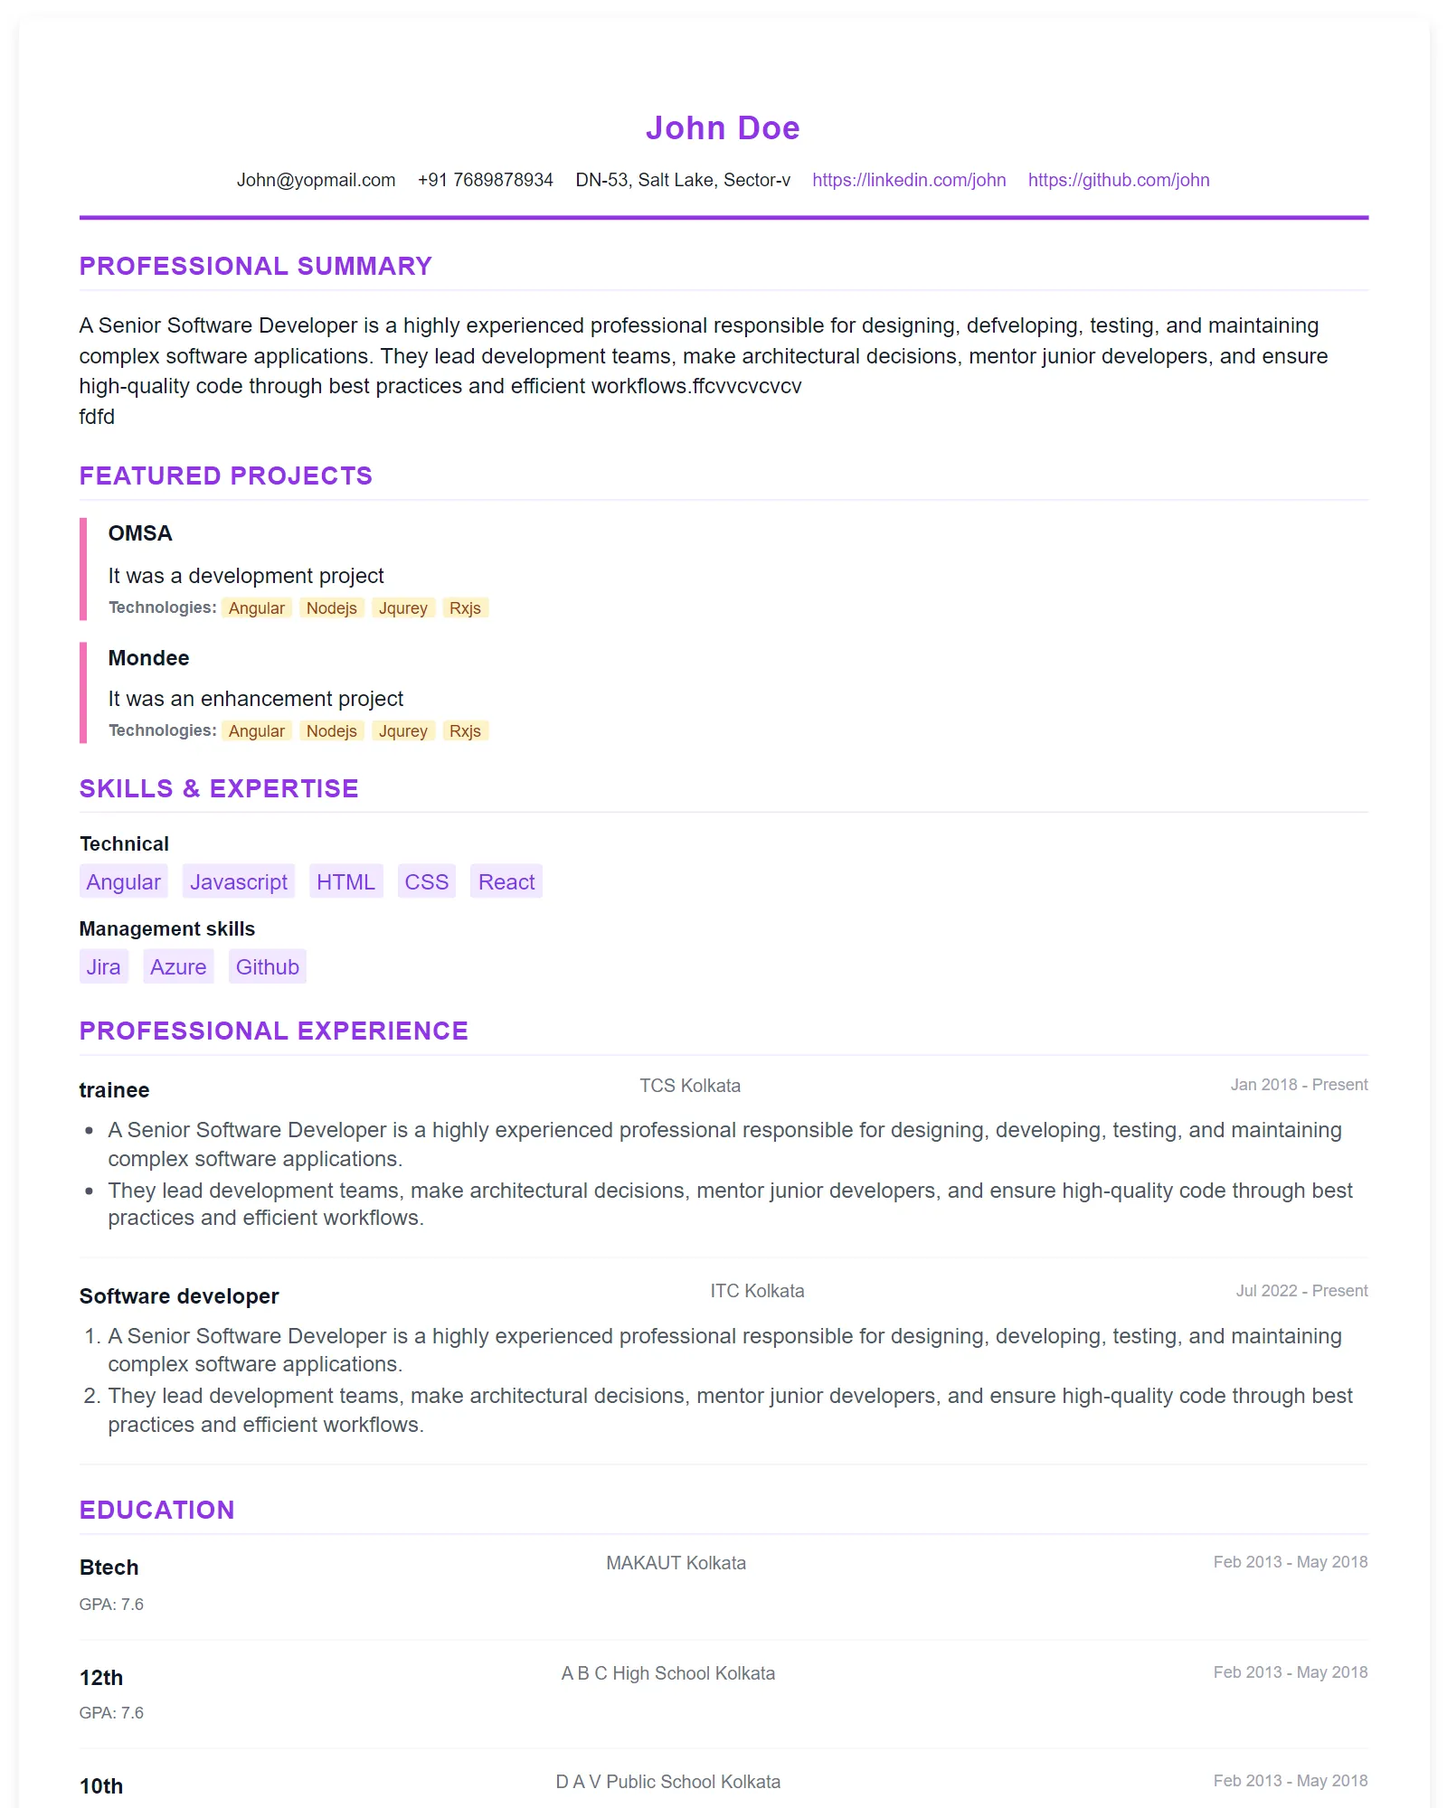
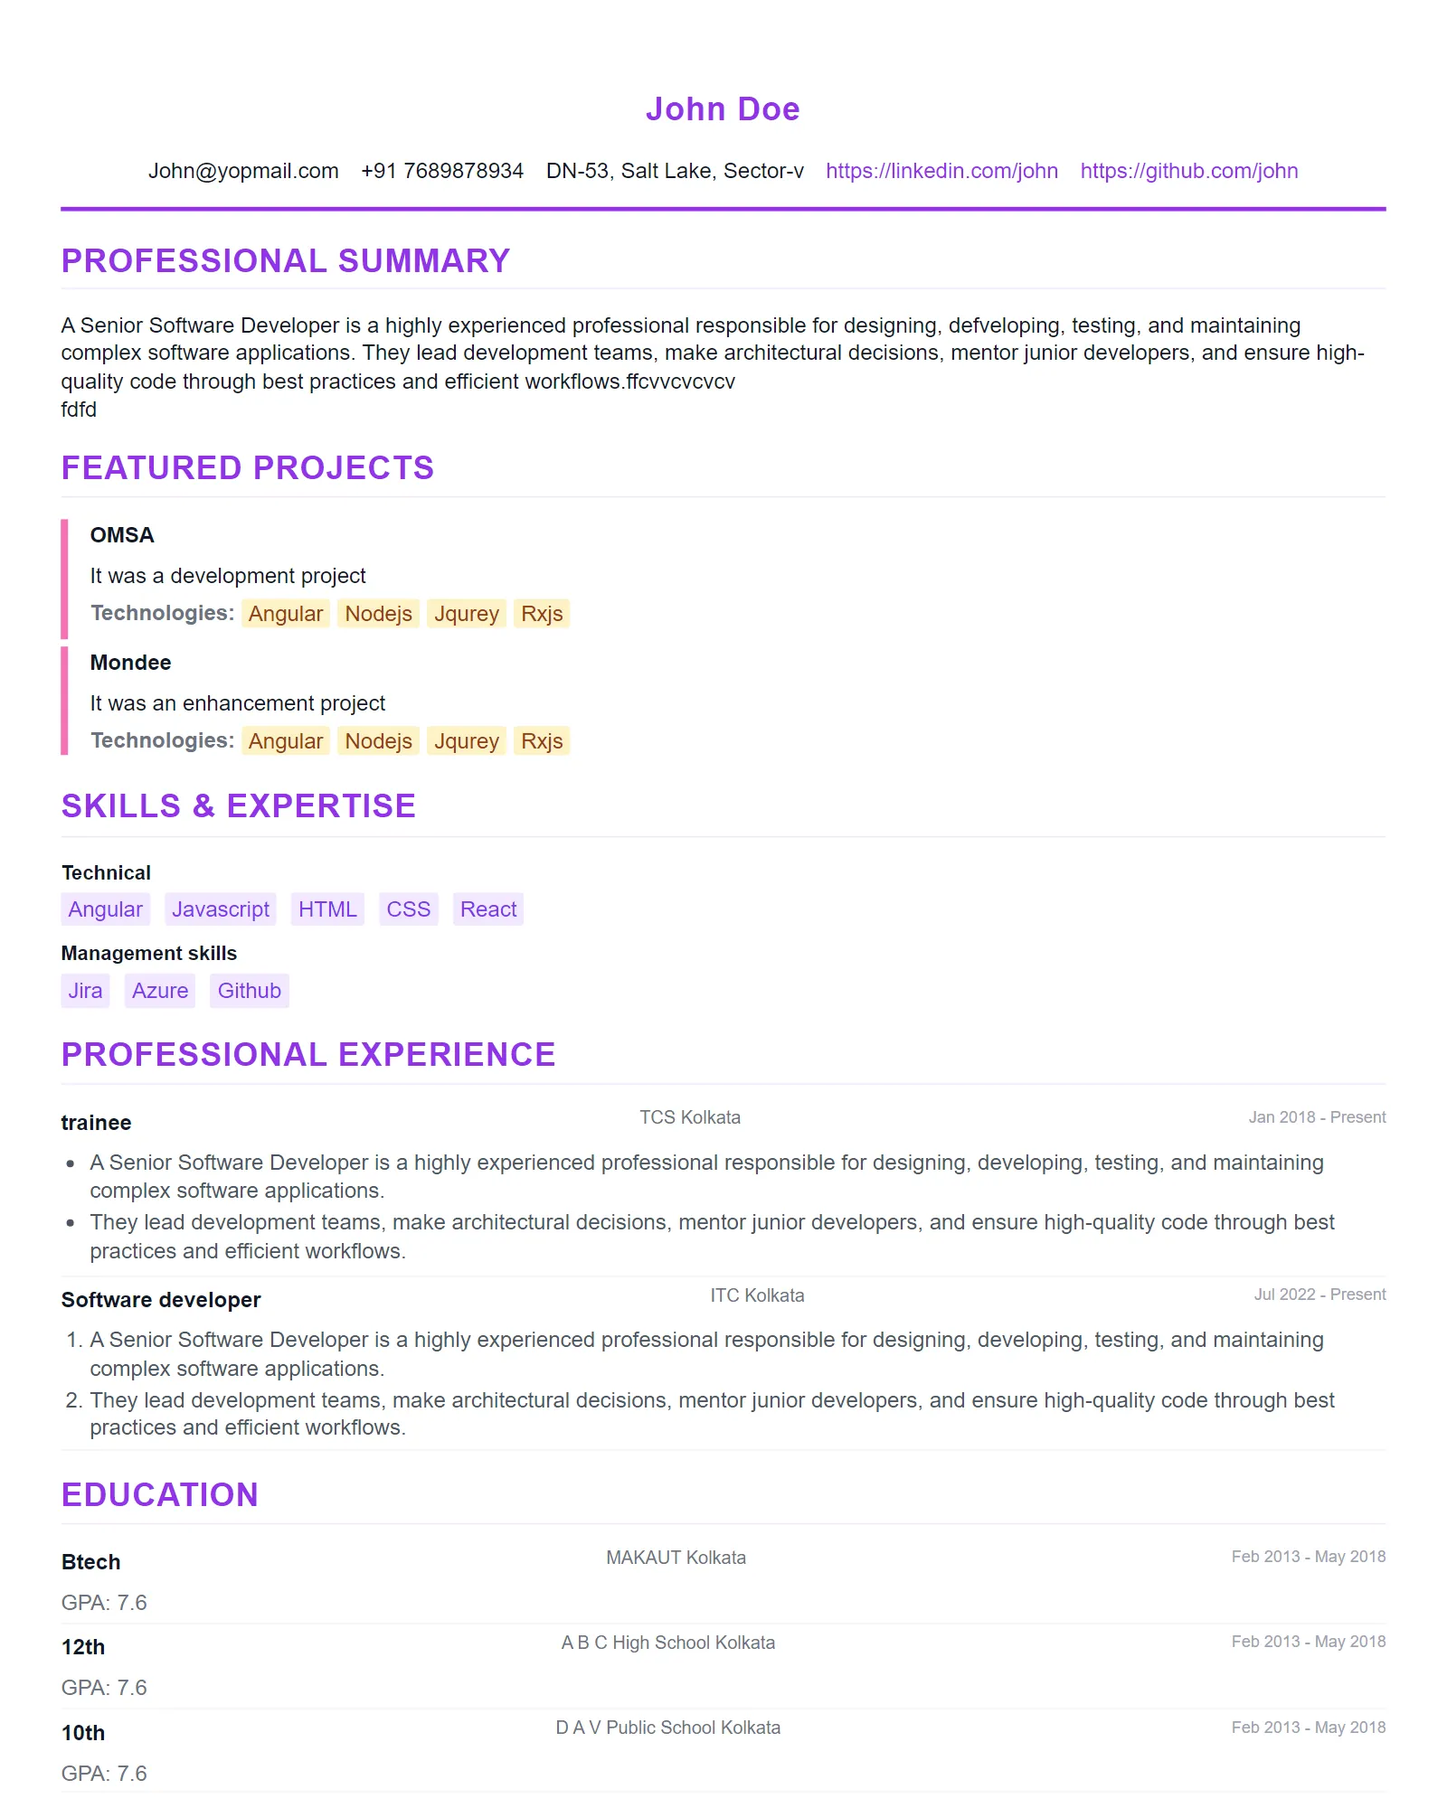
update templates thumbnails and design

diff --git a/backend/assets/templates.js b/backend/assets/templates.js
@@ -1293,7 +1293,13 @@ module.exports = [
       .cert-line { display: flex; justify-content: space-between; align-items: baseline; margin-bottom: 2px; }
       .cert-line h3 { font-size: 16px; color: #1f2937; font-weight: bold; margin: 0; }
       .cert-date { font-size: 12px; color: #6b7280; font-style: italic; }
-      .cert-issuer { font-size: 12px; color: #4b5563; font-style: italic; }`
+      .cert-issuer { font-size: 12px; color: #4b5563; font-style: italic;
+      /* General list styling for HTML content in descriptions */
+      ul, ol { margin: 0.25rem 0; padding-left: 1rem; }
+      ul li, ol li { margin-bottom: 0.125rem; color: #4b5563; line-height: 1.3; font-size: 10px; }
+      ul { list-style-type: disc; }
+      ol { list-style-type: decimal; } }
+      ul { list-style-type: disc; } ol { list-style-type: decimal; }`
     },
     creator: null,
     tags: ['classic', 'professional', 'conservative', 'formal']
@@ -1998,7 +2004,13 @@ module.exports = [
       .language-name { font-size: 12px; color: #1f2937; }
       .language-level { font-size: 12px; color: #64748b; text-transform: capitalize; }
       .custom-field { margin-bottom: 2px; }
-      .custom-content { font-size: 12px; color: #374151; line-height: 1; }`
+      .custom-content { font-size: 12px; color: #374151; line-height: 1; 
+      /* General list styling for HTML content in descriptions */
+      ul, ol { margin: 0.25rem 0; padding-left: 1rem; }
+      ul li, ol li { margin-bottom: 0.125rem; color: #4b5563; line-height: 1.3; font-size: 10px; }
+      ul { list-style-type: disc; }
+      ol { list-style-type: decimal; }}
+      ul { list-style-type: disc; } ol { list-style-type: decimal; }`
     },
     creator: null,
     tags: ['professional', 'executive', 'leadership', 'corporate']
@@ -2187,7 +2199,14 @@ module.exports = [
       .skill-category { margin-bottom: 10px; }
       .skill-category h3 { font-size: 11px; font-weight: 600; color: #1f2937; margin-bottom: 3px; }
       .skill-items { color: #4b5563; line-height: 1.4; }
-      .cert-issuer { color: #6b7280; font-style: italic; }`
+      .cert-issuer { color: #6b7280; font-style: italic; 
+      /* General list styling for HTML content in descriptions */
+      ul, ol { margin: 0.25rem 0; padding-left: 1rem; }
+      ul li, ol li { margin-bottom: 0.125rem; color: #4b5563; line-height: 1.3; font-size: 10px; }
+      ul { list-style-type: disc; }
+      ol { list-style-type: decimal; }
+      }
+      ul { list-style-type: disc; } ol { list-style-type: decimal; }`
     },
     creator: null,
     tags: ['academic', 'research', 'education', 'scholarly', 'single-column', 'green']
@@ -3708,7 +3727,7 @@ module.exports = [
         </section>
         {{/if}}
       </article>`,
-      "css": ".resume.classic-serif { font-family: 'Times New Roman', serif; max-width: 8.5in; margin: 0 auto; padding: 0.5in 0.35in; background: white; color: #111827; font-size: 12px; line-height: 1.4; } .resume.classic-serif .header { text-align: left !important; margin-bottom: 8px; padding-bottom: 4px; border-bottom: 1px solid #d1d5db; } .resume.classic-serif .name { font-size: 18px; line-height: 1.2; letter-spacing: 0.5px; margin: 0 0 3px; font-variant: small-caps; text-align: left !important; font-weight: bold; } .resume.classic-serif .contact { font-size: 11px; color: #4b5563; line-height: 1.3; } .resume.classic-serif section { margin-top: 8px; } .resume.classic-serif h2 { text-transform: uppercase; font-size: 14px; margin: 6px 0 3px; letter-spacing: 0.5px; color: #1f2937; border-left: 3px solid #4b5563; padding-left: 4px; font-weight: bold; } .resume.classic-serif h3 { font-size: 12px; font-weight: bold; margin: 3px 0 2px; color: #374151; } .resume.classic-serif .job-header, .resume.classic-serif .edu-header, .resume.classic-serif .project-header, .resume.classic-serif .achievement-header, .resume.classic-serif .cert-header { display: flex; justify-content: space-between; align-items: baseline; margin-bottom: 2px; } .resume.classic-serif .dates { font-size: 10px; color: #6b7280; } .resume.classic-serif .gpa { font-size: 10px; color: #374151; margin: 2px 0; } .resume.classic-serif .company, .resume.classic-serif .institution, .resume.classic-serif .issuer { font-size: 10px; color: #4b5563; margin: 2px 0; } .resume.classic-serif .job-description, .resume.classic-serif .project-description, .resume.classic-serif .edu-description { margin: 3px 0; color: #374151; line-height: 1.4; } .resume.classic-serif .achievements { margin: 3px 0;} .resume.classic-serif .achievements li { margin-bottom: 2px; color: #374151; } .resume.classic-serif .skill-category { margin-bottom: 4px; } .resume.classic-serif .skill-items { display: flex; flex-wrap: wrap; gap: 6px; margin-top: 2px; } .resume.classic-serif .skill-item { background: #f3f4f6; padding: 2px 4px; border-radius: 2px; font-size: 9px; color: #374151; } .resume.classic-serif .technologies { margin: 3px 0; } .resume.classic-serif .tech-tag { background: #e5e7eb; padding: 1px 3px; border-radius: 2px; font-size: 8px; margin-right: 3px; } .resume.classic-serif .project-links { margin: 2px 0; } .resume.classic-serif .project-links a { color: #2563eb; text-decoration: none; font-size: 9px; } .resume.classic-serif .cert-expiry, .resume.classic-serif .cert-id { font-size: 9px; color: #6b7280; margin: 1px 0; } .resume.classic-serif .cert-link a { color: #2563eb; text-decoration: none; font-size: 9px; } .resume.classic-serif .issuer-info { font-size: 9px; color: #6b7280; margin: 2px 0; } .resume.classic-serif .language-item { margin: 2px 0; font-size: 10px; } .resume.classic-serif .custom-field { margin-bottom: 4px; } .resume.classic-serif .custom-content { margin: 2px 0; } .resume.classic-serif p { margin: 2px 0; } .resume.classic-serif .job, .resume.classic-serif .edu, .resume.classic-serif .project, .resume.classic-serif .cert, .resume.classic-serif .achievement { margin-bottom: 6px; }"
+      "css": ".resume.classic-serif { font-family: 'Times New Roman', serif; max-width: 8.5in; margin: 0 auto; padding: 0.5in 0.35in; background: white; color: #111827; font-size: 12px; line-height: 1.4; } .resume.classic-serif .header { text-align: left !important; margin-bottom: 8px; padding-bottom: 4px; border-bottom: 1px solid #d1d5db; } .resume.classic-serif .name { font-size: 18px; line-height: 1.2; letter-spacing: 0.5px; margin: 0 0 3px; font-variant: small-caps; text-align: left !important; font-weight: bold; } .resume.classic-serif .contact { font-size: 11px; color: #4b5563; line-height: 1.3; } .resume.classic-serif section { margin-top: 8px; } .resume.classic-serif h2 { text-transform: uppercase; font-size: 14px; margin: 6px 0 3px; letter-spacing: 0.5px; color: #1f2937; border-left: 3px solid #4b5563; padding-left: 4px; font-weight: bold; } .resume.classic-serif h3 { font-size: 12px; font-weight: bold; margin: 3px 0 2px; color: #374151; } .resume.classic-serif .job-header, .resume.classic-serif .edu-header, .resume.classic-serif .project-header, .resume.classic-serif .achievement-header, .resume.classic-serif .cert-header { display: flex; justify-content: space-between; align-items: baseline; margin-bottom: 2px; } .resume.classic-serif .dates { font-size: 10px; color: #6b7280; } .resume.classic-serif .gpa { font-size: 10px; color: #374151; margin: 2px 0; } .resume.classic-serif .company, .resume.classic-serif .institution, .resume.classic-serif .issuer { font-size: 10px; color: #4b5563; margin: 2px 0; } .resume.classic-serif .job-description, .resume.classic-serif .project-description, .resume.classic-serif .edu-description { margin: 3px 0; color: #374151; line-height: 1.4; } .resume.classic-serif .achievements { margin: 3px 0;} .resume.classic-serif .achievements li { margin-bottom: 2px; color: #374151; } .resume.classic-serif .skill-category { margin-bottom: 4px; } .resume.classic-serif .skill-items { display: flex; flex-wrap: wrap; gap: 6px; margin-top: 2px; } .resume.classic-serif .skill-item { background: #f3f4f6; padding: 2px 4px; border-radius: 2px; font-size: 9px; color: #374151; } .resume.classic-serif .technologies { margin: 3px 0; } .resume.classic-serif .tech-tag { background: #e5e7eb; padding: 1px 3px; border-radius: 2px; font-size: 8px; margin-right: 3px; } .resume.classic-serif .project-links { margin: 2px 0; } .resume.classic-serif .project-links a { color: #2563eb; text-decoration: none; font-size: 9px; } .resume.classic-serif .cert-expiry, .resume.classic-serif .cert-id { font-size: 9px; color: #6b7280; margin: 1px 0; } .resume.classic-serif .cert-link a { color: #2563eb; text-decoration: none; font-size: 9px; } .resume.classic-serif .issuer-info { font-size: 9px; color: #6b7280; margin: 2px 0; } .resume.classic-serif .language-item { margin: 2px 0; font-size: 10px; } .resume.classic-serif .custom-field { margin-bottom: 4px; } .resume.classic-serif .custom-content { margin: 2px 0; } .resume.classic-serif p { margin: 2px 0; } .resume.classic-serif .job, .resume.classic-serif .edu, .resume.classic-serif .project, .resume.classic-serif .cert, .resume.classic-serif .achievement { margin-bottom: 6px; ul, ol { margin: 0.25rem 0; padding-left: 1rem; }   ul li, ol li { margin-bottom: 0.125rem; color: #4b5563; line-height: 1.3; font-size: 10px; } ul { list-style-type: disc; } ol { list-style-type: decimal; } } ul { list-style-type: disc; } ol { list-style-type: decimal; }"
     },
     creator: null,
     "tags": ["classic", "serif", "traditional", "academic", "single-column", "gray"]

diff --git a/backend/utils/puppeteerThumbnailGenerator.js b/backend/utils/puppeteerThumbnailGenerator.js
@@ -2,6 +2,7 @@ const puppeteer = require('puppeteer');
 const path = require('path');
 const fs = require('fs').promises;
 const handlebars = require('handlebars');
+const OptimizedTemplateRenderer = require('../utils/templateRenderer');
 
 class PuppeteerThumbnailGenerator {
   constructor() {
@@ -330,62 +331,171 @@ class PuppeteerThumbnailGenerator {
       this.registerHelpers();
 
       // Compile template HTML
-      const htmlTemplate = handlebars.compile(template.templateCode.html);
-      const compiledHTML = htmlTemplate(this.sampleData);
+      // const htmlTemplate = handlebars.compile(template.templateCode.html);
+      // const compiledHTML = htmlTemplate(this.sampleData);
+      const renderer = new OptimizedTemplateRenderer();
+    
+      // Prepare resume data for rendering
+      const resumeData = {
+        title: this.sampleData.title,
+        personalInfo: this.sampleData.personalInfo,
+        summary: this.sampleData.summary,
+        workExperience: this.sampleData.workExperience,
+        education: this.sampleData.education,
+        skills: this.sampleData.skills,
+        projects: this.sampleData.projects,
+        achievements: this.sampleData.achievements,
+        certifications: this.sampleData.certifications,
+        languages: this.sampleData.languages,
+        customFields: this.sampleData.customFields,
+        styling: this.sampleData.styling || {} // Include styling data
+      };
+      const renderResult = renderer.render(template, resumeData);
 
       // Create full HTML document with minimal styling to match actual rendering
-      const fullHTML = `
-        <!DOCTYPE html>
-        <html lang="en">
-        <head>
+      // const fullHTML = `
+      //   <!DOCTYPE html>
+      //   <html lang="en">
+      //   <head>
+      //     <meta charset="UTF-8">
+      //     <meta name="viewport" content="width=device-width, initial-scale=1.0">
+      //     <title>${template.name}</title>
+      //     <style>
+      //       /* Basic reset and page setup */
+      //       * {
+      //         margin: 0;
+      //         padding: 0;
+      //         box-sizing: border-box;
+      //       }
+            
+      //       :root { 
+      //         --template-bg: ${template.styling.colors.background || '#ffffff'}; 
+      //       }
+            
+      //       body {
+      //         margin: 0;
+      //         padding: 10px;
+      //         background: var(--template-bg);
+      //         font-family: -apple-system, BlinkMacSystemFont, 'Segoe UI', Roboto, sans-serif;
+      //       }
+            
+      //       /* Template CSS from template - use as-is without modifications */
+      //       ${template.templateCode.css}
+            
+      //       /* Minimal thumbnail-specific adjustments for better preview */
+      //       .resume {
+      //         margin: 0 auto;
+      //         background: var(--template-bg);
+      //         overflow: hidden;
+      //       }
+            
+      //       /* Ensure consistent rendering across templates */
+      //       .resume * {
+      //         text-rendering: optimizeLegibility;
+      //         -webkit-font-smoothing: antialiased;
+      //         -moz-osx-font-smoothing: grayscale;
+      //       }
+      //     </style>
+      //   </head>
+      //   <body>
+      //     ${compiledHTML}
+      //   </body>
+      //   </html>
+      // `;
+      const htmlContent = `
+      <!DOCTYPE html>
+      <html lang="en">
+      <head>
           <meta charset="UTF-8">
           <meta name="viewport" content="width=device-width, initial-scale=1.0">
           <title>${template.name}</title>
           <style>
-            /* Basic reset and page setup */
-            * {
-              margin: 0;
-              padding: 0;
-              box-sizing: border-box;
-            }
-            
-            :root { 
-              --template-bg: ${template.styling.colors.background || '#ffffff'}; 
-            }
-            
-            body {
-              margin: 0;
-              padding: 10px;
-              background: var(--template-bg);
-              font-family: -apple-system, BlinkMacSystemFont, 'Segoe UI', Roboto, sans-serif;
-            }
-            
-            /* Template CSS from template - use as-is without modifications */
-            ${template.templateCode.css}
-            
-            /* Minimal thumbnail-specific adjustments for better preview */
-            .resume {
-              max-width: 8.5in;
-              margin: 0 auto;
-              background: var(--template-bg);
-              box-shadow: 0 2px 8px rgba(0, 0, 0, 0.1);
-              border-radius: 4px;
-              overflow: hidden;
-            }
-            
-            /* Ensure consistent rendering across templates */
-            .resume * {
-              text-rendering: optimizeLegibility;
-              -webkit-font-smoothing: antialiased;
-              -moz-osx-font-smoothing: grayscale;
-            }
+              /* Basic reset and page setup */
+              * {
+                  margin: 0;
+                  padding: 0;
+                  box-sizing: border-box;
+              }
+              
+              :root { 
+                  --template-bg: ${template.styling.colors.background || '#ffffff'}; 
+              }
+              
+              body {
+                  margin: 0;
+                  padding: 0;
+                  background: ${template.styling.colors.background || '#ffffff'};
+              }
+              
+              /* Template CSS from renderer - HIGHEST PRIORITY */
+              ${renderResult.css}
+              
+              /* Minimal PDF-specific overrides - LOWEST PRIORITY */
+              /* Only apply essential PDF optimizations that don't conflict with template design */
+              
+              /* Print optimizations - minimal and non-conflicting */
+              @media print {
+                  body {
+                      background: ${template?.styling?.colors?.background || '#ffffff'} !important;
+                  }
+                  .resume { 
+                      box-shadow: none;
+                      background: ${template?.styling?.colors?.background || '#ffffff'} !important;
+                  }
+                  * { 
+                      -webkit-print-color-adjust: exact; 
+                      color-adjust: exact;
+                  }
+              }
+              
+              /* Page margins for PDF generation */
+              @page :first {
+                  margin: 0in 0in 0.5in 0in;
+              }
+              
+              @page {
+                  margin: 0.5in 0in 0.5in 0in;
+              }
+              
+              /* Remove bottom spacing from the last element for PDF */
+              .resume > *:last-child,
+              .resume section:last-child,
+              .resume .section:last-child,
+              .resume .work-experience:last-child,
+              .resume .education:last-child,
+              .resume .skills:last-child,
+              .resume .projects:last-child,
+              .resume .achievements:last-child,
+              .resume .certifications:last-child,
+              .resume .languages:last-child,
+              .resume .summary:last-child,
+              .resume .custom-fields:last-child,
+              .resume .main-content > *:last-child,
+              .resume .sidebar > *:last-child,
+              .resume .content-grid > *:last-child {
+                margin-bottom: 0 !important;
+                padding-bottom: 0 !important;
+              }
+              
+              /* Also remove bottom spacing from last items within sections */
+              .resume .job-item:last-child,
+              .resume .edu-item:last-child,
+              .resume .project-item:last-child,
+              .resume .cert-item:last-child,
+              .resume .achievement-item:last-child,
+              .resume .skill-category:last-child,
+              .resume .language-item:last-child,
+              .resume .custom-field:last-child {
+                margin-bottom: 0 !important;
+                padding-bottom: 0 !important;
+              }
           </style>
-        </head>
-        <body>
-          ${compiledHTML}
-        </body>
-        </html>
-      `;
+      </head>
+      <body>
+          ${renderResult.html}
+      </body>
+      </html>
+    `;
 
       // Create new page
       const page = await this.browser.newPage();
@@ -398,13 +508,14 @@ class PuppeteerThumbnailGenerator {
       });
 
       // Load HTML content
-      await page.setContent(fullHTML, {
+      await page.setContent(htmlContent, {
         waitUntil: 'networkidle0',
         timeout: 30000
       });
 
       // Wait for fonts to load
       await page.evaluateHandle('document.fonts.ready');
+      await page.emulateMediaType('print');
 
       // Generate filename if not provided
       const thumbnailFilename = filename || `${template.name.toLowerCase().replace(/\s+/g, '-')}-thumbnail.${format}`;
